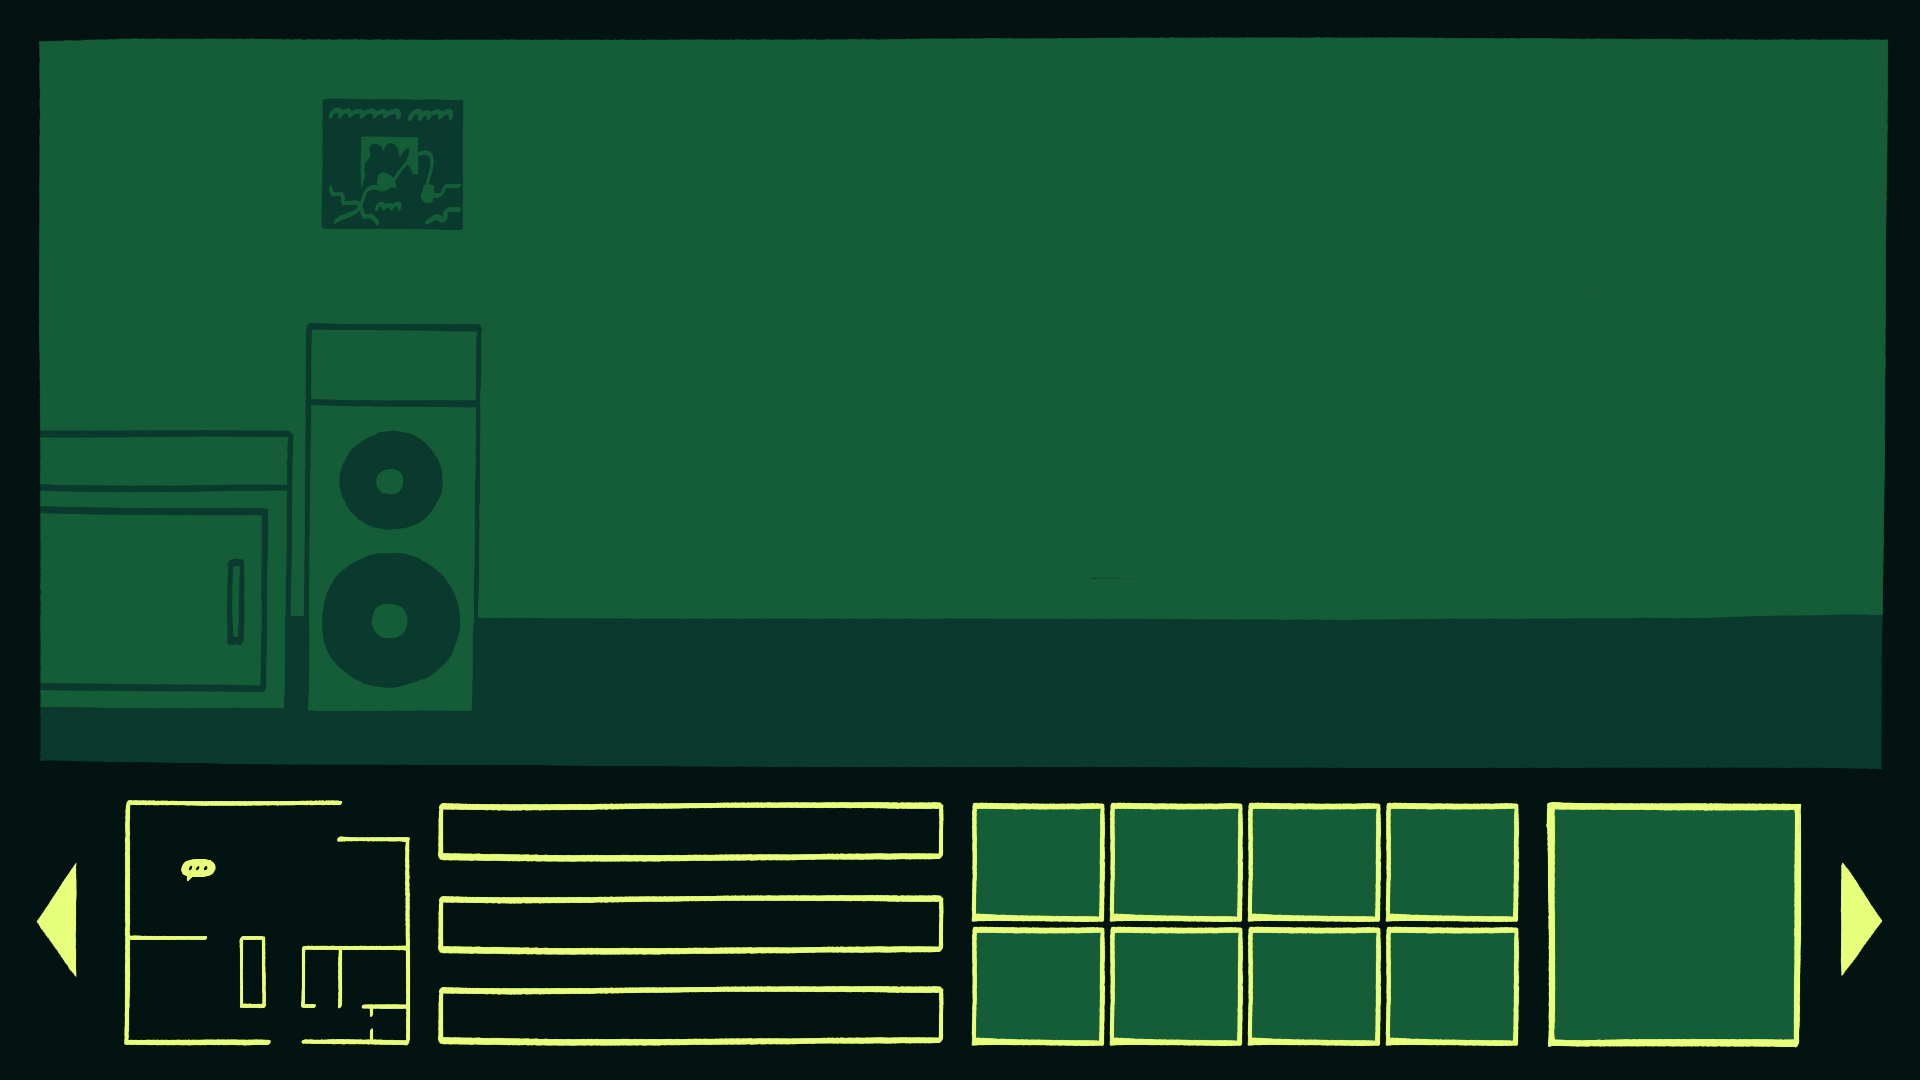
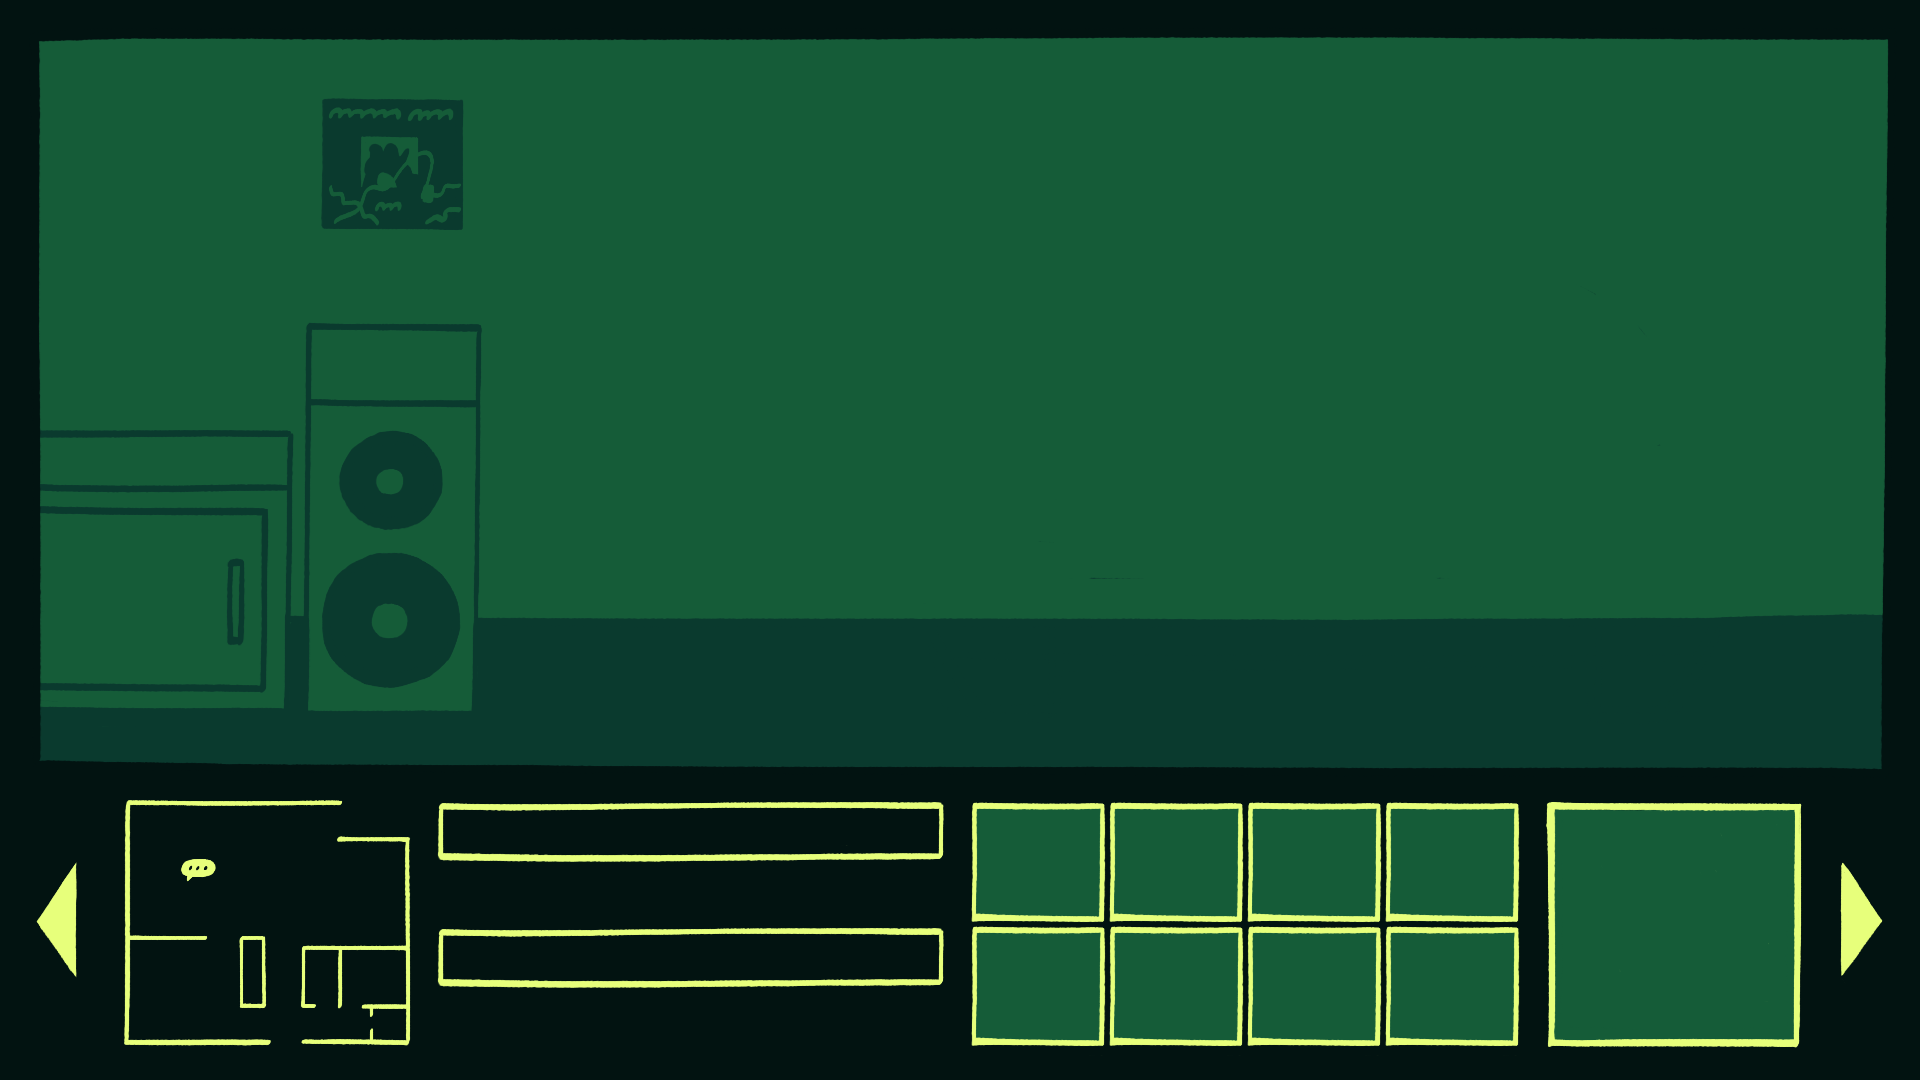
slightly less dummy dialog

Changed region(s): [[0.2188, 0.825, 0.5, 0.9778]]

diff --git a/livingroom.html b/livingroom.html
@@ -42,17 +42,17 @@
             <img class="small" id="brad" src="./imgs/living room/characters/brad.png"  style="width: 457px; height: 576px; top: 179px; left: 1332px;">
 
             <!-- hitboxes -->
-            <div class="hit" id="hcouch" style="width: 832px; height: 452px; top: 262px; left: 909px; border-radius: 100px;" title="couch"></div>
-            <div class="hit" id="hjoint" style="width: 88px; height: 29px; top: 703px; left: 1487px; border-radius: 20px; transform: rotate(-23deg);" title="joint"></div>
-            <div class="hit" id="hlamp" style="width: 159px; height: 598px; top: 122px; left: 1711px; border-radius: 50px;" title="lamp"></div>
-            <div class="hit" id="hps5" style="width: 95px; height: 169px; top: 305px; left: 175px;" title="ps5"></div>
-            <div class="hit" id="hrbox" style="width: 146px; height: 167px; top: 552px; left: 486px;" title="record box"></div>
-            <div class="hit" id="hrplay" style="width: 153px; height: 124px; top: 268px; left: 316px;" title="record player"></div>
-            <div class="hit" id="htv" style="width: 123px; height: 392px; top: 83px; left: 39px;" title="tv"></div>
-            <div class="hit" id="hjake" style="width: 250px; height: 350px; top: 30px; left: 1300px; border-radius: 100px;" title="jake"></div>
-            <div class="hit" id="hangela" style="width: 319px; height: 592px; top: 175px; left: 945px; border-radius: 120px;" title="angela"></div>
-            <div class="hit" id="hellie" style="width: 239px; height: 654px; top: 99px; left: 678px; border-radius: 20px;" title="ellie"></div>
-            <div class="hit" id="hbrad" style="width: 250px; height: 640px; top: 145px; left: 1385px; transform: rotate(30deg); border-radius: 100px;" title="brad"></div>
+            <div class="hit" id="ncouch" style="width: 832px; height: 452px; top: 262px; left: 909px; border-radius: 100px;" title="couch"></div>
+            <div class="hit" id="njoint" style="width: 88px; height: 29px; top: 703px; left: 1487px; border-radius: 20px; transform: rotate(-23deg);" title="joint"></div>
+            <div class="hit" id="nlamp" style="width: 159px; height: 598px; top: 122px; left: 1711px; border-radius: 50px;" title="lamp"></div>
+            <div class="hit" id="nps5" style="width: 95px; height: 169px; top: 305px; left: 175px;" title="ps5"></div>
+            <div class="hit" id="nrbox" style="width: 146px; height: 167px; top: 552px; left: 486px;" title="record box"></div>
+            <div class="hit" id="nrplay" style="width: 153px; height: 124px; top: 268px; left: 316px;" title="record player"></div>
+            <div class="hit" id="ntv" style="width: 123px; height: 392px; top: 83px; left: 39px;" title="tv"></div>
+            <div class="hit" id="cjake" style="width: 250px; height: 350px; top: 30px; left: 1300px; border-radius: 100px;" title="jake"></div>
+            <div class="hit" id="cangela" style="width: 319px; height: 592px; top: 175px; left: 945px; border-radius: 120px;" title="angela"></div>
+            <div class="hit" id="cellie" style="width: 239px; height: 654px; top: 99px; left: 678px; border-radius: 20px;" title="ellie"></div>
+            <div class="hit" id="cbrad" style="width: 250px; height: 640px; top: 145px; left: 1385px; transform: rotate(30deg); border-radius: 100px;" title="brad"></div>
 
             <!-- inventory -->
             <div class="inventory" id="inv">
@@ -69,9 +69,10 @@
             <div class="hit" id="umap" style="width: 286px; height: 247px; top: 798px; left: 125px;" title="map"></div>
             <div class="hit" id="uleft" style="width: 41px; height: 115px; top: 862px; left: 36px;" title="goto rec room"></div>
             <div class="hit" id="uright" style="width: 41px; height: 115px; top: 862px; left: 1840px;" title="goto dining room"></div>
-            <div class="bar" style="width: 200px; top: 817px; left: 450px;">anxiety</div>
-            <div class="bar" style="width: 480px; top: 910px; left: 450px;">inebriation</div>
-            <div class="bar" style="width: 10px; top: 1001px; left: 450px;">random stat</div>
+            <div class="bar" style="width: 200px; top: 817px; left: 450px;"></div>
+            <div class="bar" style="width: 480px; top: 943px; left: 450px;"></div>
+            <div class="barlabel" style="width: 480px; top: 867px; left: 435px;">anxiety</div>
+            <div class="barlabel" style="width: 480px; top: 993px; left: 435px;">inebriation</div>
 
             <!-- dialog stuff -->
             <img class="dg big hidden" id="dark" src="./imgs/living room/dialog/dark.png" style="opacity: 50%">
@@ -88,6 +89,7 @@
         integrity="sha256-2Kok7MbOyxpgUVvAk/HJ2jigOSYS2auK4Pfzbm7uH60="
         crossorigin="anonymous">
     </script>
+    <script src="./dialog/livingroom.js"></script>
     <script>
         let dark = document.getElementById('dark');
         let textbox = document.getElementById('textbox');
@@ -97,30 +99,56 @@
 
         let ddrew = document.getElementById('ddrew');
 
+        let i = 0;
+        let a, b;
+
         $(document).click(function(event) {
             let id = $(event.target).attr('id');
             let cl = $(event.target).attr('class').split(/\s+/);
-            
-            if (id == 'bg' || id == 'inv' || cl.includes('small') || cl.includes('bar')) return;
+
+            if (id == 'bg' || id == 'inv' || cl.includes('small') || cl.includes('bar') || cl.includes('barlabel')) return;
             else if (dark.classList.contains('hidden')) {
                 var title = $(event.target).attr('title');
 
                 dark.classList.remove('hidden');
                 textbox.classList.remove('hidden');
                 text.classList.remove('hidden');
-                ddrew.classList.remove('hidden');
+                // ddrew.classList.remove('hidden');
 
-                charname.innerHTML = 'drew:';
-                dialog.innerHTML = 'this is ' + title + '.';
+                let type = id.charAt(0);
+                let thing = id.substring(1);
+                if (type == 'c') {
+                    if (thing == 'jake') {a = jake1a; b = jake1b};
+                    if (thing == 'angela') {a = angela1a; b = angela1b};
+                    if (thing == 'ellie') {a = ellie1a; b = ellie1b};
+                    if (thing == 'brad') {a = brad1a; b = brad1b};
+                    if (thing == 'suzy') {a = suzy1a; b = suzy1b};
+
+                    charname.innerHTML = a[i] + ':';
+                    dialog.innerHTML = b[i];
+                }
+                else if (type == 'n') {
+                    if (thing == 'jake') {b};
+                    charname.innerHTML = '';
+                    dialog.innerHTML = b[i];
+                }
+                else {
+                    charname.innerHTML = a[i] + ':';
+                    dialog.innerHTML = b[i];
+                }
+                i++;
             }
-            else if (dialog.innerHTML == 'but i already knew that.') {
+            else if (i == a.length) {
                 dark.classList.add('hidden');
                 textbox.classList.add('hidden');
                 text.classList.add('hidden');
-                ddrew.classList.add('hidden');
+                // ddrew.classList.add('hidden');
+                i = 0;
             }
             else {
-                dialog.innerHTML = 'but i already knew that.';
+                charname.innerHTML = a[i] + ':';
+                dialog.innerHTML = b[i];
+                i++;
             }
         });
     </script>

diff --git a/dialog/livingroom.js b/dialog/livingroom.js
@@ -1,0 +1,64 @@
+// ANGELA'S DIALOG
+angela1a = [
+    "angela",
+    "angela",
+    "angela",
+    "angela"
+]
+angela1b = [
+    "oh my gosh, hi drew!",
+    "i totally thought you weren't coming.",
+    "you let me know if you need anything, alright? <3",
+    "(and loosen up a little! it's a party, not a funeral!)",
+]
+
+// ELLIE'S DIALOG
+ellie1a = [
+    "ellie",
+    "ellie",
+    "ellie",
+    "ellie"
+]
+ellie1b = [
+    "oh, hey drew. good to see you.",
+    "...",
+    "... ... ...",
+    "um, yeah. that's all."
+]
+
+// JAKE'S DIALOG
+jake1a = [
+    "jake",
+    "jake",
+    "jake",
+    "jake"
+]
+jake1b = [
+    "well, lookie here--andy reyes, in the flesh!",
+    "see, told you guys he was coming.",
+    "go ahead, enjoy yourself! mi casa es su casa.",
+    "you should take off that jacket, though. you're gonna roast."
+]
+
+// BRAD'S DIALOG
+brad1a = [
+    "brad",
+    "brad",
+    "brad",
+    "brad"
+]
+brad1b = [
+    "yooo andy! what up, my man?",
+    "you want a beer? claw?",
+    "oh, shit, i forgot--you don't drink, haha.",
+    "well, lisa's got that green in the backyard if you're lookin for a puff, yeah?"
+]
+
+//SUZY'S DIALOG
+suzy1a = [
+    "suzy"
+]
+
+suzy1b = [
+    "this party is boring. when can we go home?"
+]

diff --git a/css/room.css b/css/room.css
@@ -72,9 +72,11 @@ body {
     position: absolute;
     height: 30px;
     background: var(--e);
-    color: var(--c);
-    font-size: 1.4rem;
-    white-space: nowrap;
+}
+.barlabel {
+    position: absolute;
+    color: var(--d);
+    font-size: 1.5rem;
 }
 
 #text {
